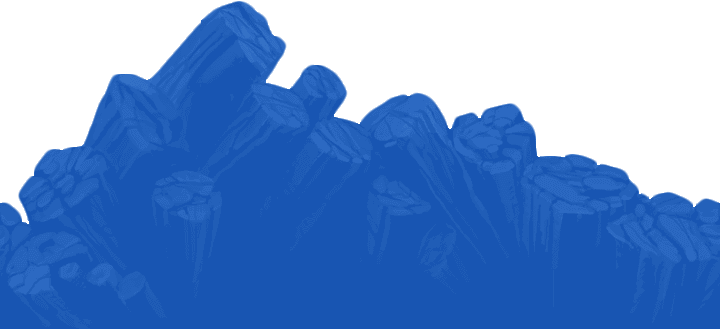
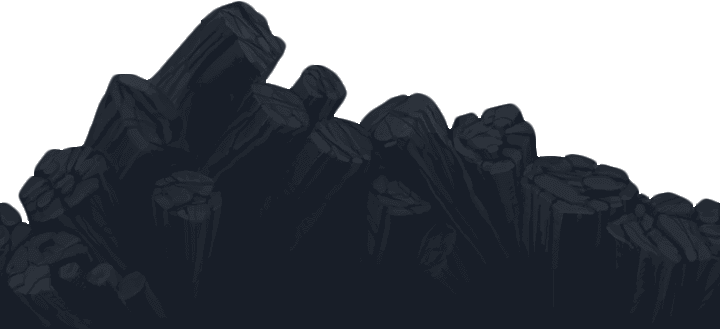
Changing footer to grayscale.

diff --git a/src/components/Footer/Footer.css b/src/components/Footer/Footer.css
@@ -11,7 +11,7 @@
 
 .footer .footer-background {
     opacity: .5;
-    background-color: #2C69C2;
+    background-color: #181E28;
     position: absolute;
     top: 0;
     bottom: 0;
